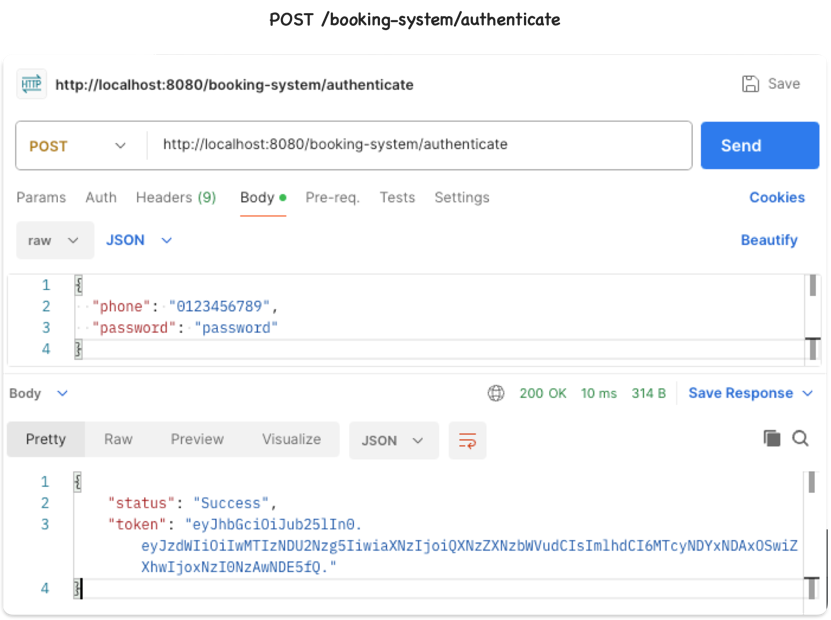
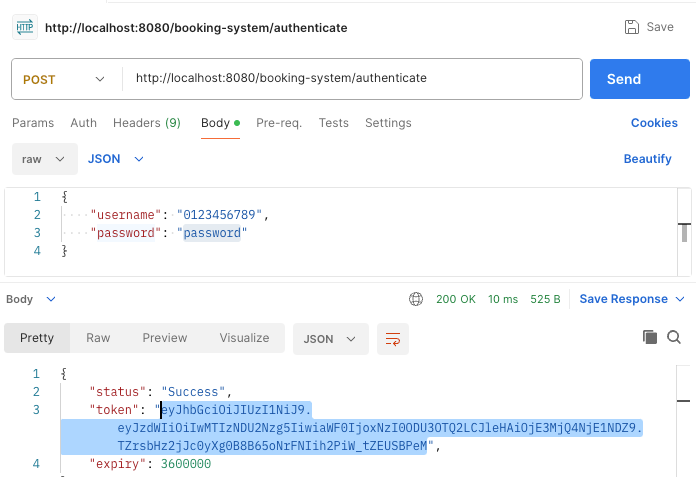
Update Readme and documentations

diff --git a/Documentation.md b/Documentation.md
@@ -18,7 +18,9 @@ This document provides a visual guide to the Bus Booking System, including scree
 - **Screenshot**:
 
   ![Authenticate Request](images/post_api_authenticate_success.png)
-  ![Authenticate Request](images/post_api_authenticate_error.png)
+  ![Authenticate Request](images/jwt_parsed.png)
+  ![Authenticate Request](images/post_api_authenticate_error_password.png)
+  ![Authenticate Request](images/post_api_authenticate_error_user.png)
 
 ### 2. **Get All Buses**
 - **Endpoint**: `GET /booking-system/bus`
@@ -33,21 +35,22 @@ This document provides a visual guide to the Bus Booking System, including scree
 - **Screenshot**:
 
   ![Search Buses](images/get_api_search_success.png)
+  ![Search Buses](images/get_api_search_error_token.png)
 
 ### 4. **Add a New Bus**
 - **Endpoint**: `POST /booking-system/bus`
 - **Description**: Adds a new bus to the system.
 - **Request Body**:
     ```json
-    {
-      "bus_number": "BUS123",
-      "bus_name": "Express",
-      "travel_company": "Fast Travels",
-      "capacity": 50,
-      "available_seats": 50,
-      "source": "City A",
-      "destination": "City B"
-    }
+  {
+      "busNumber" : "86",
+      "busName" : "Romford Station",
+      "travelCompany" : "TFL",
+      "capacity" : 35,
+      "availableSeats" : 20,
+      "source" : "Stratford",
+      "destination" : "Romford"
+  }
     ```
 - **Screenshot**:
 
@@ -60,18 +63,22 @@ This document provides a visual guide to the Bus Booking System, including scree
 - **Description**: Books a seat on a selected bus.
 - **Request Body**:
     ```json
-    {
-      "bus_number": "BUS123",
-      "booking_date": "2024-08-19",
-      "source": "City A",
-      "destination": "City B",
-      "total_seats": 2
-    }
+  {
+      "bookingNumber": 2,
+      "busNumber": "N86",
+      "bookingDate": "2024-08-28",
+      "source": "Romford",
+      "destination": "Stratford",
+      "totalSeats": 20,
+      "bookingStatus": "CONFIRMED"
+  }
     ```
 - **Screenshot**:
 
   ![Book a Seat](images/post_api_book_success.png)
-  ![Book a Seat](images/post_api_book_error.png)
+  ![Book a Seat](images/post_api_book_error_no_seats.png)
+  ![Book a Seat](images/post_api_book_error_not_found.png)
+  ![Book a Seat](images/post_api_book_error_no_token.png)
 
 ## Database Table Screenshots
 

diff --git a/README.md b/README.md
@@ -19,7 +19,7 @@ The Bus Booking System is a simple backend application built using **Kotlin**, *
 - The application consists of Controllers, Services, Repositories, and a Security Component (JWT).
 - All data is stored in an H2 In-Memory Database.
 
-<img src="images/architecture_diagram.png" alt="alt text" width="1135"/>
+<img src="images/diagram_architecture.png" alt="alt text" width="1209"/>
 
 ### Flow Diagram
 - The flow starts with the User interacting with the Auth Controller for authentication, which forwards requests to the
@@ -27,7 +27,16 @@ The Bus Booking System is a simple backend application built using **Kotlin**, *
 - The Bus Controller and Booking Controller handle bus-related and booking-related operations, respectively,
   communicating with their respective services and repositories.
 
-  <img src="images/flow_diagram.png" alt="alt text" width="1164"/>
+- Authentication Flow:
+  - Start: Client → AuthenticationService → JwtService → Return JWT to Client. 
+- Bus Management Flow (CRUD):
+  - Start: Client → BusService → BusRepository → Update DB → Return Response.
+- Bus Search Flow:
+  - Start: Client → BusService → BusRepository → Fetch Data → Return Buses. 
+- Booking Flow:
+  - Start: Client → BookingService → BookingRepository → Check Availability → Confirm/Reject Booking → Update DB.
+  
+<img src="images/diagram_flow.png" alt="alt text" width="1263"/>
 
 ### Project Structure
 ```css
@@ -178,3 +187,8 @@ You can use **Postman** or **Thunder Client** to send HTTP requests to the API e
 ## Documentations
 - [Bus Booking System - Documentation with Screenshots](Documentation.md)
 - [Reference Documentation](HELP.md)
+- [Reference Documentation](HELP.md)
+
+## External Links
+- [Bus Booking System - Documentation with Screenshots](https://github.com/mghisham/Bus-Booking-System/blob/main/Documentation.md)
+- [This Readme](https://github.com/mghisham/Bus-Booking-System/blob/main/README.md)
